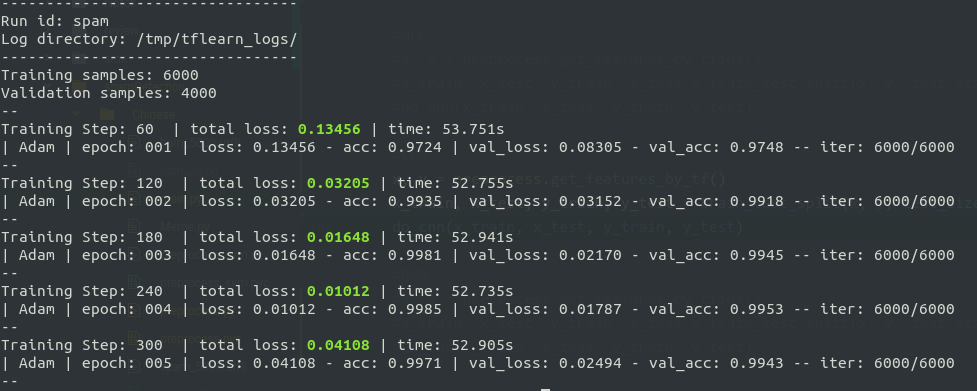
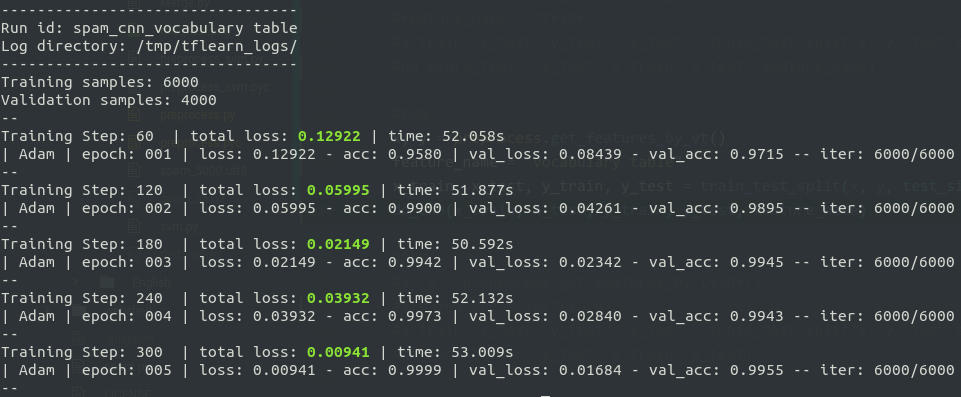
update test

diff --git a/spamDetection/Chinese/main.py b/spamDetection/Chinese/main.py
@@ -22,7 +22,6 @@ from tflearn.data_utils import to_categorical, pad_sequences
 from sklearn.neural_network import MLPClassifier
 from tflearn.layers.normalization import local_response_normalization
 from tensorflow.contrib import learn
-import preprocess_svm
 import preprocess
 import joblib
 
@@ -36,7 +35,7 @@ def show_diffrent_max_features():
     for i in range(1000,20000,2000):
         max_features=i
         print "max_features=%d" % i
-        x, y = get_features_by_wordbag()
+        x, y = preprocess.get_features_by_tf()
         x_train, x_test, y_train, y_test = train_test_split(x, y, test_size=0.4, random_state=0)
         gnb = GaussianNB()
         gnb.fit(x_train, y_train)
@@ -52,7 +51,7 @@ def show_diffrent_max_features():
     plt.show()
 
 
-def do_cnn(trainX, testX, trainY, testY):
+def do_cnn(trainX, testX, trainY, testY, feature_name):
     global max_document_length
 
     trainX = pad_sequences(trainX, maxlen=max_document_length, value=0.)
@@ -62,6 +61,8 @@ def do_cnn(trainX, testX, trainY, testY):
     testY = to_categorical(testY, nb_classes=2)
 
     # Building convolutional network
+    model_path = "./Model/CNN/cnn_{}".format(feature_name)
+
     network = input_data(shape=[None,max_document_length], name='input')
     network = tflearn.embedding(network, input_dim=1000000, output_dim=128)
     branch1 = conv_1d(network, 128, 3, padding='valid', activation='relu', regularizer="L2")
@@ -78,7 +79,8 @@ def do_cnn(trainX, testX, trainY, testY):
     model = tflearn.DNN(network, tensorboard_verbose=0)
     model.fit(trainX, trainY,
               n_epoch=5, shuffle=True, validation_set=(testX, testY),
-              show_metric=True, batch_size=100,run_id="spam")
+              show_metric=True, batch_size=100,run_id="spam_cnn_{}".format(feature_name))
+    model.save(model_path)
 
 def do_rnn(trainX, testX, trainY, testY):
     global max_document_length
@@ -102,14 +104,16 @@ def do_rnn(trainX, testX, trainY, testY):
               batch_size=10,run_id="spm-run",n_epoch=5)
 
 
-def do_dnn(x_train, x_test, y_train, y_test):
+def do_mlp(x_train, x_test, y_train, y_test, feature_name):
     # MLP
+    model_path = "./Model/MLP/mlp_{}".format(feature_name)
     clf = MLPClassifier(solver='lbfgs',
                         alpha=1e-5,
                         hidden_layer_sizes = (5, 2),
                         random_state = 1)
-    print  clf
+    print clf
     clf.fit(x_train, y_train)
+    joblib.dump(clf, model_path)
     y_pred = clf.predict(x_test)
     print metrics.accuracy_score(y_test, y_pred)
     print metrics.confusion_matrix(y_test, y_pred)
@@ -120,31 +124,22 @@ def feature_select(X, y):
     return SelectKBest(chi2, k=500).fit_transform(X, y)
 
 if __name__ == "__main__":
-    #x,y=get_features_by_wordbag()
-    #x_train, x_test, y_train, y_test = train_test_split(x, y, test_size = 0.4, random_state = 0)
-
-    #print "get_features_by_wordbag_tfidf"
-    #x,y=get_features_by_wordbag_tfidf()
-
     #show_diffrent_max_features()
-
-    #print "get_features_by_tf"
-    #x,y=get_features_by_tf()
-    #x_train, x_test, y_train, y_test = train_test_split(x, y, test_size = 0.4, random_state = 0)
-    #CNN
-    #do_cnn_wordbag(x_train, x_test, y_train, y_test)
 
     #MLP
     #x, y = preprocess.get_features_by_tfidf()
+    #feature_name = "tfidf"
     #x_train, x_test, y_train, y_test = train_test_split(x, y, test_size = 0.4, random_state = 0)
-    #do_dnn(x_train, x_test, y_train, y_test)
+    #do_mlp(x_train, x_test, y_train, y_test, feature_name)
 
     #CNN
-    x, y = preprocess.get_features_by_tf()
+    x, y = preprocess.get_features_by_vt()
+    feature_name = "vocabulary table"
     x_train, x_test, y_train, y_test = train_test_split(x, y, test_size = 0.4, random_state = 0)
-    do_cnn(x_train, x_test, y_train, y_test)
+    do_cnn(x_train, x_test, y_train, y_test, feature_name)
 
     #RNN
     #x, y = preprocess.get_features_by_tfidf()
+    #x = feature_select(x, y)
     #x_train, x_test, y_train, y_test = train_test_split(x, y, test_size = 0.4, random_state = 0)
     #do_rnn(x_train, x_test, y_train, y_test)

diff --git a/linuxBackdoor/main.py b/linuxBackdoor/main.py
@@ -23,7 +23,7 @@ def do_mlp(x_train, x_test, y_train, y_test, n):
                         hidden_layer_sizes = (5, 2),
                         random_state = 1)
     clf.fit(x_train, y_train)
-    joblib.dump(clf, model_path.format(n))
+    #joblib.dump(clf, model_path.format(n))
     y_pred = clf.predict(x_test)
     print(classification_report(y_test, y_pred))
     print metrics.confusion_matrix(y_test, y_pred)
@@ -35,8 +35,10 @@ def show_result(x_train, x_test, y_train, y_test, n):
     print metrics.confusion_matrix(y_test, y_pred)
 
 if __name__ == "__main__":
-    for i in range(2, 6):
-        print "{}-Gram&tf-idf and mlp".format(i)
-        x_train, x_test, y_train, y_test = preprocess.get_feature_wordbag(i)
-        do_mlp(x_train, x_test, y_train, y_test, i)
+    #for i in range(2, 6):
+        #print "{}-Gram&tf-idf and mlp".format(i)
+        #x_train, x_test, y_train, y_test = preprocess.get_feature_wordbag(i, i)
+        #do_mlp(x_train, x_test, y_train, y_test, i)
         #show_result(x_train, x_test, y_train, y_test, i)
+    x_train, x_test, y_train, y_test = preprocess.get_feature_wordbag(3, 4)
+    do_mlp(x_train, x_test, y_train, y_test, 2)

diff --git a/linuxBackdoor/preprocess.py b/linuxBackdoor/preprocess.py
@@ -33,7 +33,7 @@ def load_all_files():
 
     return x,y
 
-def get_feature_wordbag(n):
+def get_feature_wordbag(n, m):
     save_name = "./Model/Data/wordbag_{}-Gram.data".format(n)
     if os.path.exists(save_name):
         f = open(save_name,'r')
@@ -45,7 +45,7 @@ def get_feature_wordbag(n):
     max_features=1000
     x,y=load_all_files()
     vectorizer = CountVectorizer(
-                                 ngram_range=(n, n),
+                                 ngram_range=(n, m),
                                  token_pattern=r'\b\d+\b',
                                  decode_error='ignore',
                                  strip_accents='ascii',

diff --git a/webshell/main.py b/webshell/main.py
@@ -107,6 +107,7 @@ def do_mlp(x, y, feature_name):
     #print clf
     x_train, x_test, y_train, y_test = train_test_split(x, y, test_size=0.4, random_state=0)
     clf.fit(x_train, y_train)
+    print clf
     y_pred = clf.predict(x_test)
     joblib.dump(clf, model_name)
     #print y_train

diff --git a/spamDetection/Chinese/preprocess.py b/spamDetection/Chinese/preprocess.py
@@ -50,7 +50,7 @@ def get_features_by_tfidf():
     return x, y
 
 
-def get_features_by_tf():
+def get_features_by_vt():
     global  max_document_length
     file_list = ['./ham_5000.utf8', './spam_5000.utf8']
 
